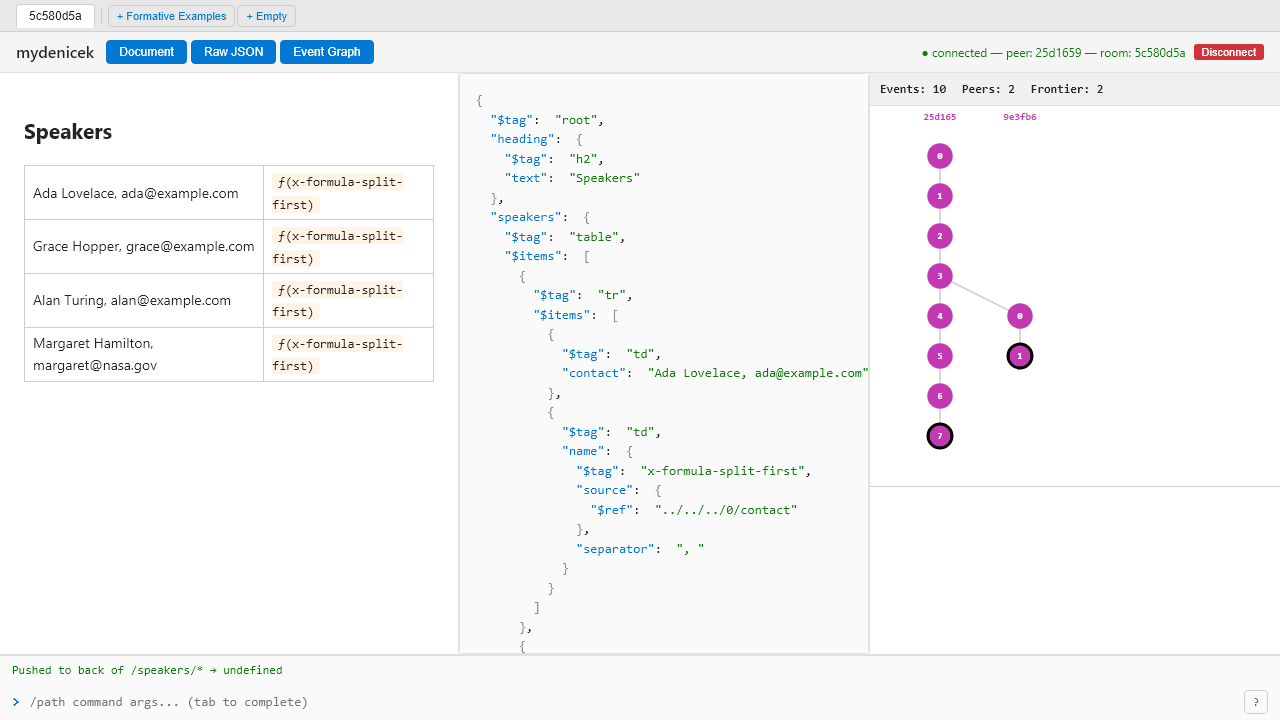
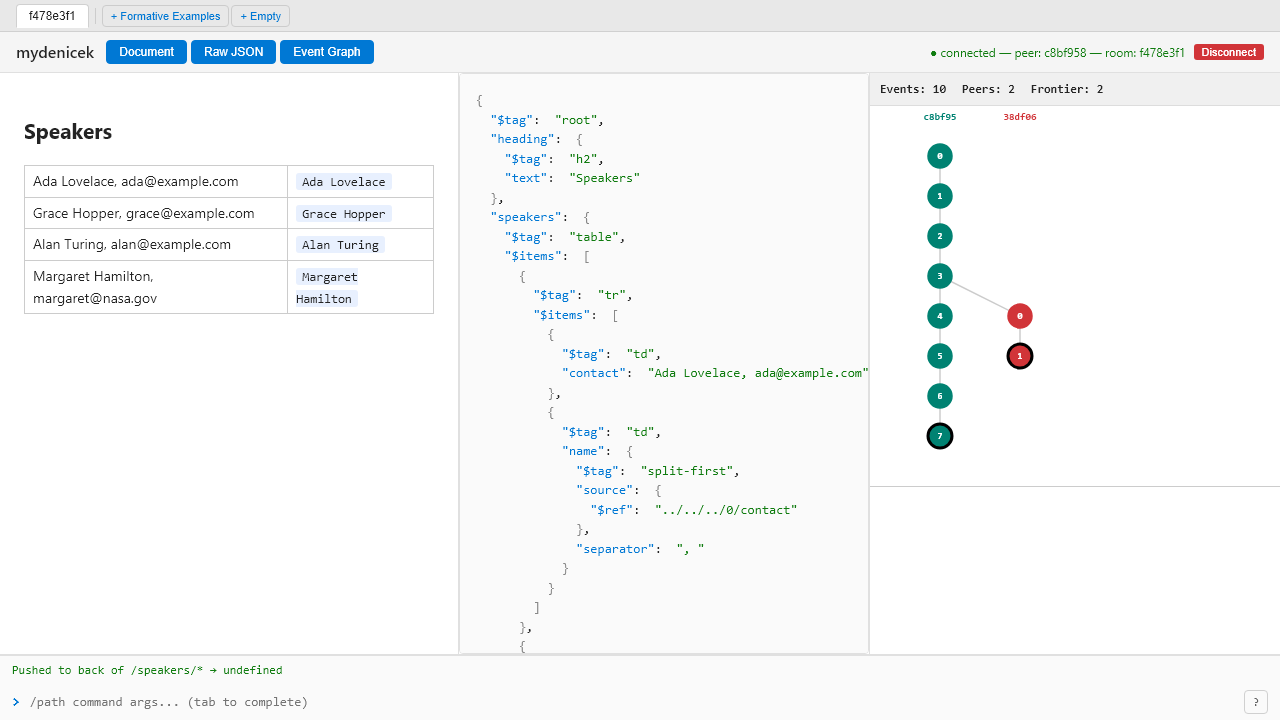
fix: formula engine resolves \ inside tag evaluators, add split-first/split-rest aliases
Three fixes:
1. Tag evaluator's evaluate() callback now handles \ nodes by
   calling resolveRefArgument (was returning 'non-primitive' error)
2. evaluate() accepts optional fieldName to resolve refs relative to
   the field containing them (not the formula root)
3. isFormulaNode() checks tagEvaluators registry, not just x-formula prefix
4. Registered split-first/split-rest as formula tag aliases

Demo screenshots now show evaluated names: 'Ada Lovelace', 'Grace Hopper',
'Alan Turing', 'Margaret Hamilton' in the split-first column.

diff --git a/packages/core/core/formula-engine.ts b/packages/core/core/formula-engine.ts
@@ -43,8 +43,9 @@ function isPlainRecord(node: PlainNode): node is PlainRecord {
 }
 
 function isFormulaNode(node: PlainNode): node is PlainRecord {
-  return isPlainRecord(node) && typeof node.$tag === "string" &&
-    (node.$tag as string).startsWith("x-formula");
+  if (!isPlainRecord(node) || typeof node.$tag !== "string") return false;
+  const tag = node.$tag as string;
+  return tag.startsWith("x-formula") || tagEvaluators.has(tag);
 }
 
 function isPrimitive(node: PlainNode): node is PrimitiveValue {
@@ -76,7 +77,7 @@ function lookupOperation(name: string): FormulaOperation | undefined {
  */
 export type FormulaTagEvaluator = (
   node: PlainRecord,
-  evaluate: (child: PlainNode) => FormulaResult,
+  evaluate: (child: PlainNode, fieldName?: string) => FormulaResult,
 ) => FormulaResult;
 
 const tagEvaluators = new Map<string, FormulaTagEvaluator>();
@@ -218,31 +219,31 @@ registerFormulaOperation("countChildren", (args) => {
 // ── Built-in tag evaluators ─────────────────────────────────────────────
 
 registerFormulaTagEvaluator("x-formula-plus", (node, evaluate) => {
-  const left = evaluate(node.left as PlainNode);
-  const right = evaluate(node.right as PlainNode);
+  const left = evaluate(node.left as PlainNode, "left");
+  const right = evaluate(node.right as PlainNode, "right");
   if (left instanceof FormulaError) return left;
   if (right instanceof FormulaError) return right;
   return Number(left) + Number(right);
 });
 
 registerFormulaTagEvaluator("x-formula-minus", (node, evaluate) => {
-  const left = evaluate(node.left as PlainNode);
-  const right = evaluate(node.right as PlainNode);
+  const left = evaluate(node.left as PlainNode, "left");
+  const right = evaluate(node.right as PlainNode, "right");
   if (left instanceof FormulaError) return left;
   if (right instanceof FormulaError) return right;
   return Number(left) - Number(right);
 });
 
 registerFormulaTagEvaluator("x-formula-times", (node, evaluate) => {
-  const left = evaluate(node.left as PlainNode);
-  const right = evaluate(node.right as PlainNode);
+  const left = evaluate(node.left as PlainNode, "left");
+  const right = evaluate(node.right as PlainNode, "right");
   if (left instanceof FormulaError) return left;
   if (right instanceof FormulaError) return right;
   return Number(left) * Number(right);
 });
 
 registerFormulaTagEvaluator("x-formula-split-first", (node, evaluate) => {
-  const source = evaluate(node.source as PlainNode);
+  const source = evaluate(node.source as PlainNode, "source");
   if (source instanceof FormulaError) return source;
   const separator = typeof node.separator === "string" ? node.separator : ", ";
   const str = String(source);
@@ -251,7 +252,26 @@ registerFormulaTagEvaluator("x-formula-split-first", (node, evaluate) => {
 });
 
 registerFormulaTagEvaluator("x-formula-split-rest", (node, evaluate) => {
-  const source = evaluate(node.source as PlainNode);
+  const source = evaluate(node.source as PlainNode, "source");
+  if (source instanceof FormulaError) return source;
+  const separator = typeof node.separator === "string" ? node.separator : ", ";
+  const str = String(source);
+  const idx = str.indexOf(separator);
+  return idx >= 0 ? str.slice(idx + separator.length) : "";
+});
+
+// Short aliases (used when the $ref must survive CRDT validation)
+registerFormulaTagEvaluator("split-first", (node, evaluate) => {
+  const source = evaluate(node.source as PlainNode, "source");
+  if (source instanceof FormulaError) return source;
+  const separator = typeof node.separator === "string" ? node.separator : ", ";
+  const str = String(source);
+  const idx = str.indexOf(separator);
+  return idx >= 0 ? str.slice(0, idx) : str;
+});
+
+registerFormulaTagEvaluator("split-rest", (node, evaluate) => {
+  const source = evaluate(node.source as PlainNode, "source");
   if (source instanceof FormulaError) return source;
   const separator = typeof node.separator === "string" ? node.separator : ", ";
   const str = String(source);
@@ -414,11 +434,35 @@ function evaluateFormulaInner(
   // Check for a tag-based evaluator first
   const tagEvaluator = lookupTagEvaluator(tag);
   if (tagEvaluator) {
-    return tagEvaluator(formula, (child: PlainNode) => {
+    return tagEvaluator(formula, (child: PlainNode, fieldName?: string) => {
       if (isPrimitive(child)) return child;
+      // Resolve $ref relative to the field that contains it, not the formula
+      const childRefPath = fieldName
+        ? formulaPath + "/" + fieldName
+        : formulaPath;
+      if (isPlainRef(child)) {
+        const resolved = resolveRefArgument(
+          child,
+          root,
+          childRefPath,
+          tag,
+          visiting,
+          depth,
+        );
+        if (resolved instanceof FormulaError) return resolved;
+        if (resolved.length === 1) return resolved[0];
+        return new FormulaError(
+          `reference '${child.$ref}' resolved to ${resolved.length} values, expected 1`,
+        );
+      }
       if (isFormulaNode(child)) {
-        const childPath = formulaPath + "/?";
-        return evaluateFormulaNode(child, root, childPath, visiting, depth + 1);
+        return evaluateFormulaNode(
+          child,
+          root,
+          childRefPath,
+          visiting,
+          depth + 1,
+        );
       }
       return new FormulaError("non-primitive, non-formula child");
     });

diff --git a/apps/mywebnicek/src/RenderedDocument.tsx b/apps/mywebnicek/src/RenderedDocument.tsx
@@ -189,9 +189,10 @@ function renderNode(
   const tag = String(node.$tag);
 
   // Formula nodes: show computed result inline
-  if (tag.startsWith("x-formula")) {
+  // Formula nodes: x-formula-* or any tag with a registered evaluator
+  const computed = formulas.get(path);
+  if (tag.startsWith("x-formula") || computed !== undefined) {
     const op = node["operation"];
-    const computed = formulas.get(path);
     const hasResult = computed !== undefined &&
       !(computed instanceof FormulaError);
     return (
